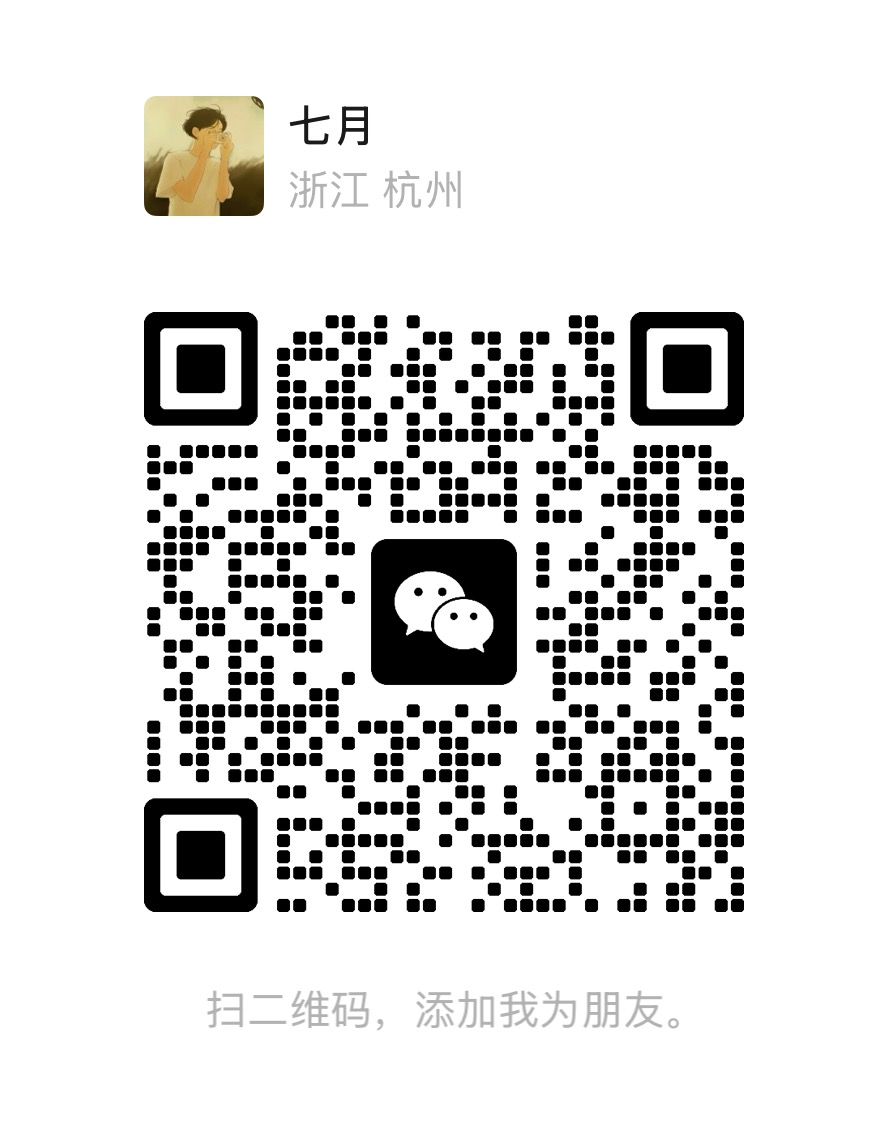
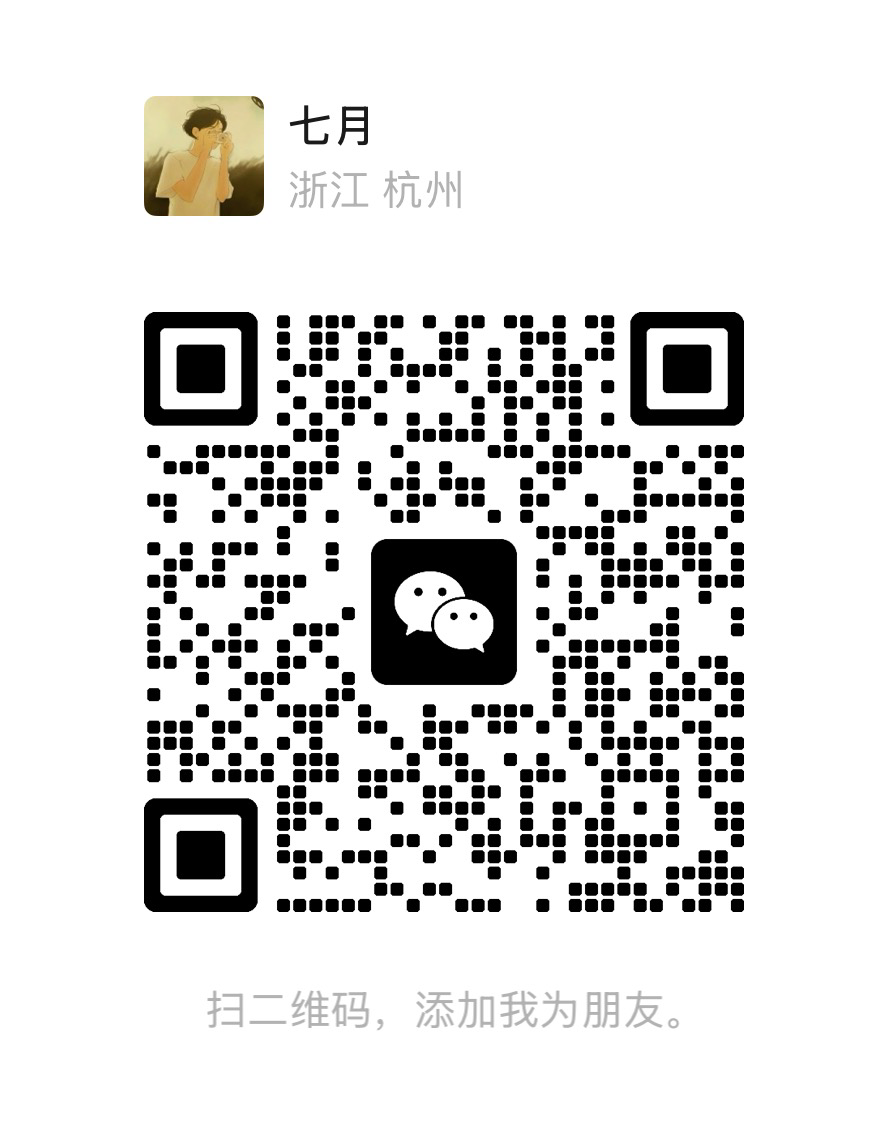
feat(website): add community WeChat QR codes

Changed region(s): [[0.152, 0.2785, 0.8514, 0.8046], [0.1824, 0.3714, 0.2128, 0.4023], [0.152, 0.4951, 0.1824, 0.5261]]

diff --git a/website/src/app/[locale]/page.tsx b/website/src/app/[locale]/page.tsx
@@ -5,6 +5,7 @@ import { ArrowRight, Download } from "lucide-react";
 
 import { BrandIcon, BrandWordmark } from "@/components/brand-logo";
 import { GithubMark } from "@/components/icons";
+import { QrCards } from "@/components/qr-cards";
 import { Reveal } from "@/components/reveal";
 import { isLocale, localePath } from "@/i18n/config";
 import { getMessages } from "@/i18n/messages";
@@ -117,7 +118,27 @@ export default async function Home({ params }: { params: Promise<{ locale: strin
       </section>
 
       <section className="bg-[linear-gradient(125deg,#eee9ff_0%,#f9edf5_52%,#fff4e8_100%)] px-5 py-20 text-[#1a1520] sm:px-8 sm:py-28 lg:px-12 dark:bg-[linear-gradient(125deg,#211b31_0%,#291b29_52%,#2d211c_100%)] dark:text-foreground">
-        <Reveal className="mx-auto grid max-w-[84rem] gap-12 lg:grid-cols-12 lg:items-center"><div className="lg:col-span-7"><p className="m-0 text-xs font-bold tracking-[0.16em] text-primary uppercase">{t.makerEyebrow}</p><h2 className="mt-4 mb-0 max-w-[13ch] font-display text-[clamp(2.5rem,5vw,4.8rem)] leading-[0.98] font-[700] tracking-[-0.05em]">{t.makerTitle}</h2><p className="mt-6 mb-0 max-w-xl text-sm leading-7 text-current/62">{t.makerBody}</p></div><div className="flex items-center gap-5 lg:col-span-5 lg:justify-end"><BrandIcon size={72} className="rounded-[1.4rem]" /><div><p className="m-0 font-display text-2xl font-semibold tracking-[-0.025em]">KindaHuaX</p><a href={SITE.authorX} target="_blank" rel="noreferrer" className="mt-2 inline-flex items-center gap-2 text-sm font-semibold text-primary hover:opacity-70">{t.makerX}<ArrowRight className="size-4" aria-hidden /></a></div></div></Reveal>
+        <Reveal className="mx-auto grid max-w-[84rem] gap-14 lg:grid-cols-12 lg:items-start">
+          <div className="lg:col-span-5 lg:sticky lg:top-28">
+            <p className="m-0 text-xs font-bold tracking-[0.16em] text-primary uppercase">{t.makerEyebrow}</p>
+            <h2 className="mt-4 mb-0 max-w-[13ch] font-display text-[clamp(2.5rem,5vw,4.8rem)] leading-[0.98] font-[700] tracking-[-0.05em]">{t.makerTitle}</h2>
+            <p className="mt-6 mb-0 max-w-xl text-sm leading-7 text-current/62">{t.makerBody}</p>
+            <div className="mt-9 flex items-center gap-5">
+              <BrandIcon size={72} className="rounded-[1.4rem]" />
+              <div>
+                <p className="m-0 font-display text-2xl font-semibold tracking-[-0.025em]">KindaHuaX</p>
+                <a href={SITE.authorX} target="_blank" rel="noreferrer" className="mt-2 inline-flex items-center gap-2 text-sm font-semibold text-primary hover:opacity-70">{t.makerX}<ArrowRight className="size-4" aria-hidden /></a>
+              </div>
+            </div>
+          </div>
+          <QrCards
+            group={t.makerGroup}
+            groupHint={t.makerGroupHint}
+            author={t.makerWechat}
+            authorHint={t.makerWechatHint}
+            className="m-0 lg:col-span-7"
+          />
+        </Reveal>
       </section>
 
       <section className="bg-[#17141f] px-5 py-24 text-center text-[#fbf9ff] sm:px-8 sm:py-36">

diff --git a/website/src/components/qr-cards.tsx b/website/src/components/qr-cards.tsx
@@ -1,6 +1,7 @@
 import Image from "next/image";
 
 import { mediaVersion } from "@/lib/media";
+import { cn } from "@/lib/utils";
 
 /**
  * 两张微信二维码,并排。
@@ -18,11 +19,13 @@ export function QrCards({
   groupHint,
   author,
   authorHint,
+  className,
 }: {
   group: string;
   groupHint: string;
   author: string;
   authorHint: string;
+  className?: string;
 }) {
   const cards = [
     { src: "/media/qr-group.png", title: group, hint: groupHint },
@@ -30,10 +33,10 @@ export function QrCards({
   ];
 
   return (
-    <div className="my-8 grid gap-6 not-prose sm:grid-cols-2">
+    <div className={cn("my-8 grid gap-8 not-prose sm:grid-cols-2", className)}>
       {cards.map((card) => (
-        <figure key={card.src} className="m-0 flex flex-col border-2 border-ink bg-card">
-          <div className="relative aspect-4/5 w-full border-b-2 border-ink bg-secondary">
+        <figure key={card.src} className="m-0 flex min-w-0 flex-col">
+          <div className="relative aspect-4/5 w-full overflow-hidden rounded-[1.5rem] border border-black/8 bg-white">
             <Image
               src={`${card.src}?v=${mediaVersion(card.src)}`}
               alt={card.title}
@@ -42,9 +45,9 @@ export function QrCards({
               className="object-contain"
             />
           </div>
-          <figcaption className="p-5">
-            <p className="m-0 font-display text-lg font-bold tracking-tight">{card.title}</p>
-            <p className="m-0 mt-1 text-sm text-muted-foreground">{card.hint}</p>
+          <figcaption className="pt-5">
+            <p className="m-0 font-display text-lg font-semibold tracking-[-0.02em]">{card.title}</p>
+            <p className="m-0 mt-1 text-sm leading-6 text-current/55">{card.hint}</p>
           </figcaption>
         </figure>
       ))}

diff --git a/website/src/i18n/messages.ts b/website/src/i18n/messages.ts
@@ -117,6 +117,10 @@ const zh = {
     makerTitle: "做给认真创作的人",
     makerBody: "Mosael 是 KindaHuaX 独立开发的开源项目。欢迎分享你的工作方式、问题和想法，让这套工具继续贴近真实的创作过程。",
     makerX: "在 X 关注 @KindaHuaX",
+    makerGroup: "Mosael 体验交流群",
+    makerGroupHint: "微信扫码进群，交流使用体验与创作方法",
+    makerWechat: "作者微信",
+    makerWechatHint: "产品建议、商业授权与合作",
     closingTitle: "准备好开始下一段创作了吗？",
     closingBody: "下载 Mosael，导入一段素材，把散落的想法整理成可以播放、可以分享的作品。",
     bottomLine: "本地优先的 AI 创作工作台",
@@ -308,6 +312,10 @@ const en: Messages = {
     makerTitle: "Made for people who care about the work.",
     makerBody: "Mosael is an open-source project independently built by KindaHuaX. Share how you create, what gets in the way, and what should come next.",
     makerX: "Follow @KindaHuaX on X",
+    makerGroup: "Mosael WeChat group",
+    makerGroupHint: "Scan to join the product and creator community",
+    makerWechat: "Author on WeChat",
+    makerWechatHint: "Product feedback, licensing, and partnerships",
     closingTitle: "Ready to start your next story?",
     closingBody: "Download Mosael, bring in a piece of media, and turn scattered ideas into something you can play, publish, and share.",
     bottomLine: "A local-first AI creative workspace",
